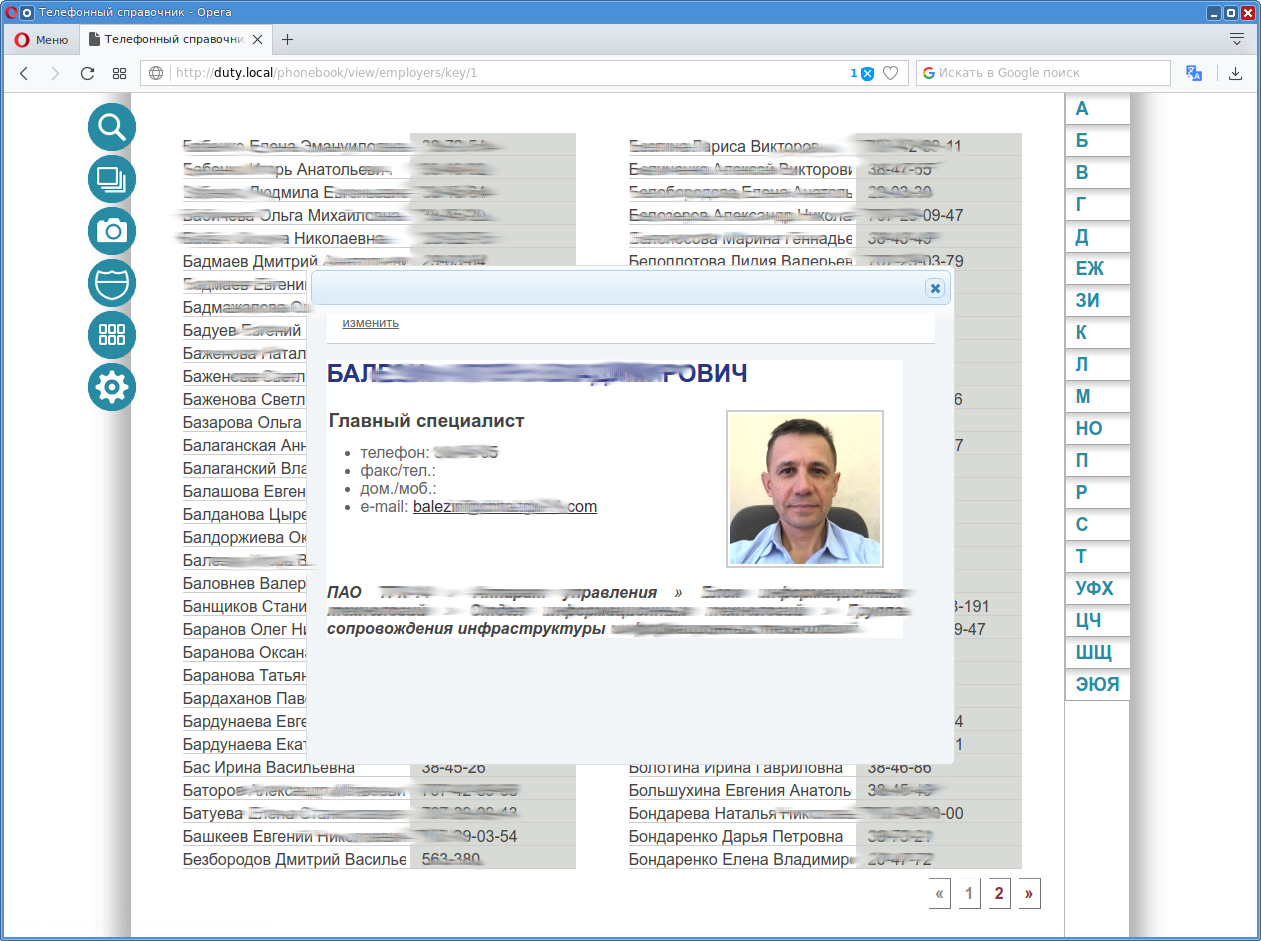
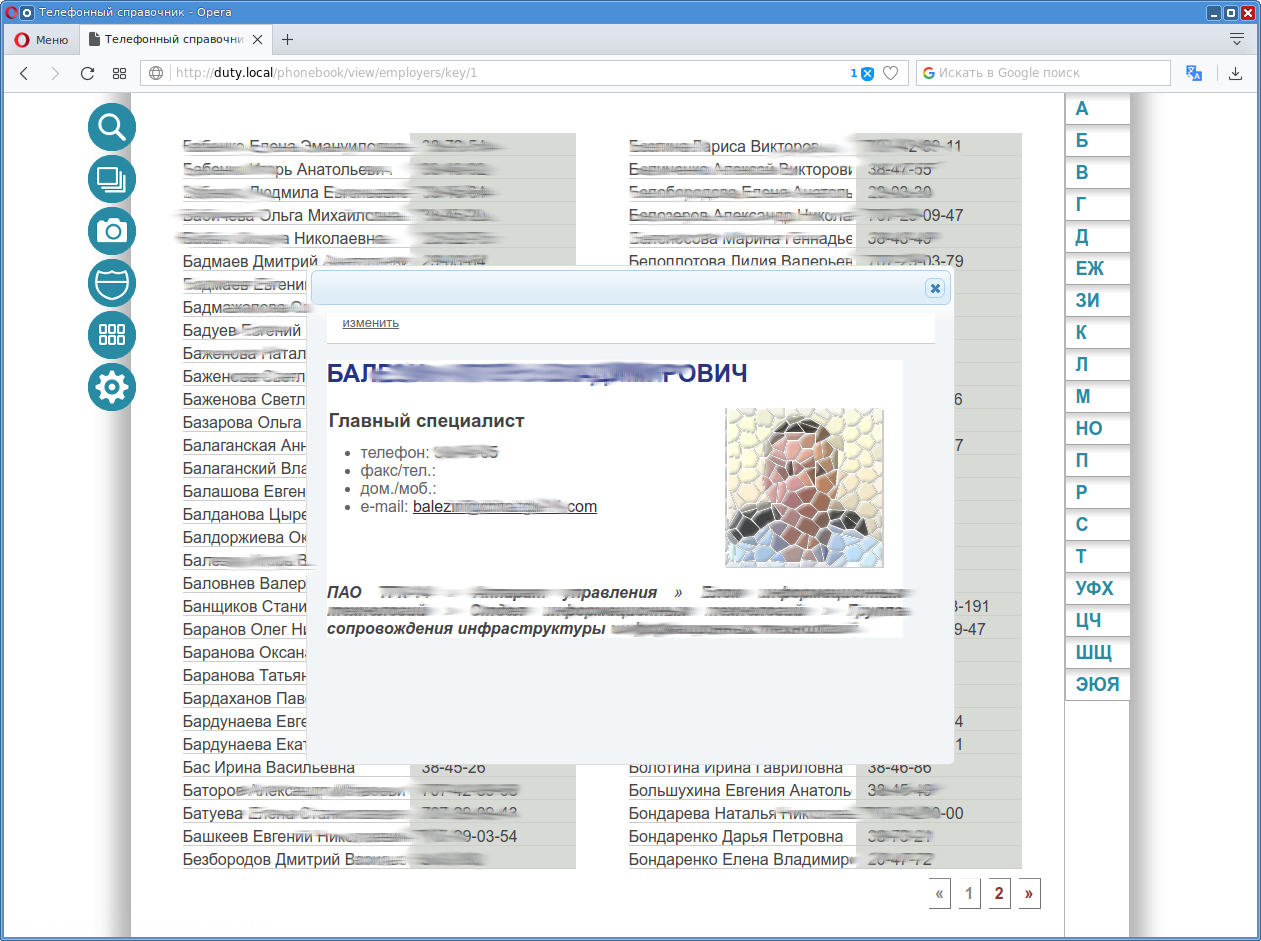
ed readme

Changed region(s): [[0.5567, 0.4315, 0.7113, 0.6164], [0.2784, 0.8937, 0.3711, 0.9245]]

diff --git a/README.md b/README.md
@@ -1,11 +1,16 @@
 # LAN Phonebook
-Phonebook for corporate LAN
 
 Телефонный справочник для корпоративной локальной сети
 
+Иерархический список подразделений и сотрудников
+
 ![Tree structure view](install/title.png)
 
+Диалог поиска данных
+
 ![Search dialog](install/search.png)
+
+Карточка сотрудника
 
 ![Emplyerr view](install/employer.png)
 
